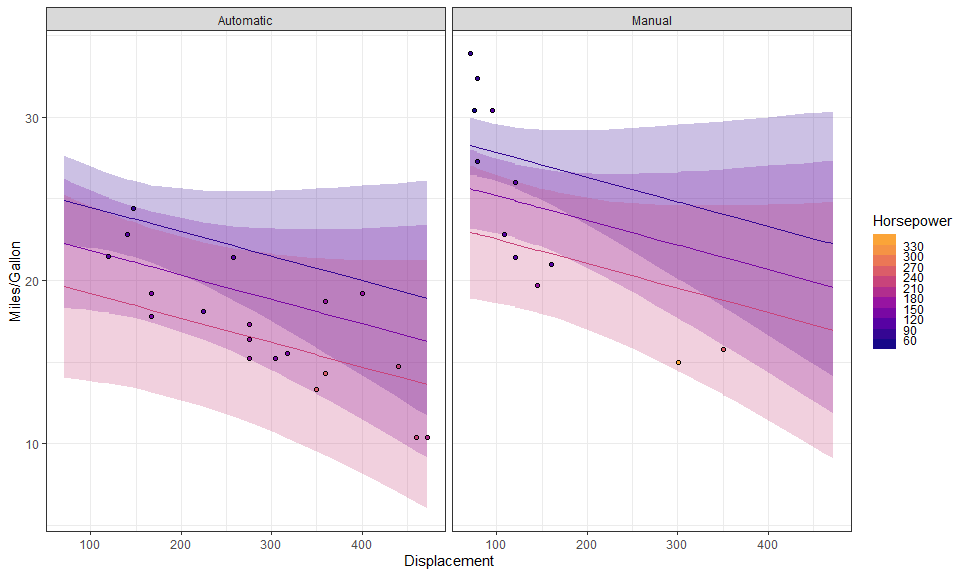
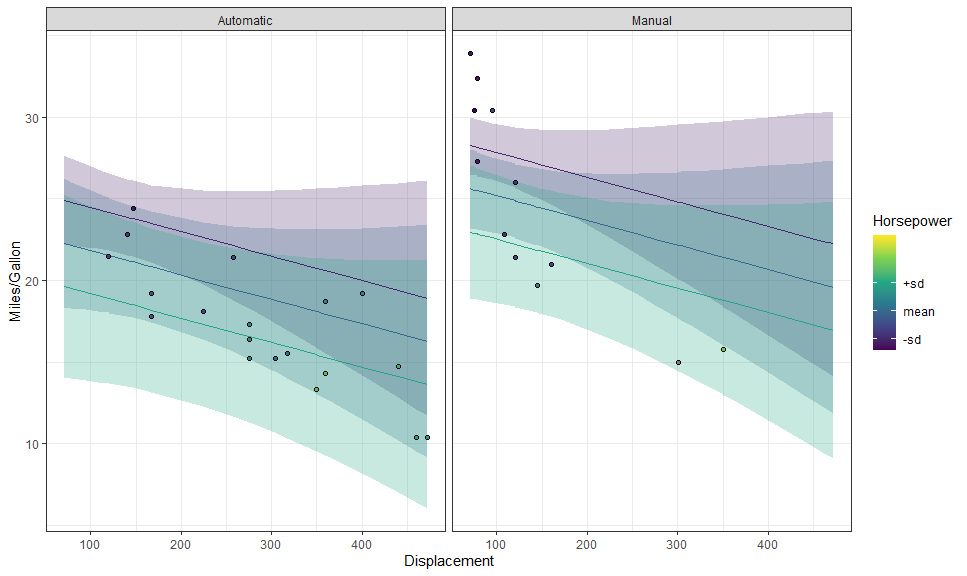
even more scale examples!

Changed region(s): [[0.062, 0.25, 0.8687, 0.875], [0.8997, 0.4062, 0.9617, 0.625]]

diff --git a/README.md b/README.md
@@ -77,7 +77,7 @@ autoplot(
 Here is another example, with a continuous variable on x:
 
 ``` r
-gge <- ggpredict(fit, c("disp [all]", "hp", "am"))
+gge <- ggpredict(fit, c("disp [all]", "hp [meansd]", "am"))
 
 autoplot(
   gge,
@@ -96,15 +96,16 @@ autoplot(
 ![](README_files/figure-gfm/custom2-1.png)<!-- -->
 
 ``` r
+hp_breaks <- setNames(as.numeric(levels(gge$group)), c("-sd", "mean", "+sd"))
+
 (p <- autoplot(gge, labeller = labeller(am = as_labeller(c("0" = "Automatic", "1" = "Manual")))) +
     # Expected + CI
     geom_CI_ribbon() +
     geom_expected_line() +
     # Scales and theme
-    scale_color_binned("Horsepower", 
-                       n.breaks = 10,
-                       type = "viridis",  option = "C", end = 0.8, 
-                       aesthetics = c("color", "fill")) +
+    scale_color_viridis_c("Horsepower", breaks = hp_breaks,
+                          limits = c(50, 330),
+                          aesthetics = c("color", "fill")) +
     theme_bw() +
     labs(y = "Miles/Gallon", x = "Displacement"))
 ```
@@ -152,7 +153,10 @@ These can also be used with other stats:
 ``` r
 gge <- ggpredict(fit, terms = c("disp [100:500, by = 70]", "cyl"))
 
-autoplot(gge, cols = vars(cyl),
+autoplot(gge, 
+         aes(color = as.numeric(as.character(cyl)),
+             fill = as.numeric(as.character(cyl))),
+         cols = vars(cyl),
          labeller = labeller(cyl = as_labeller(c("4" = "Cyl: 4", "6" = 6, "8" = 8)))) + 
   # Expected + CI
   geom_CI_ribbon() + 
@@ -163,7 +167,9 @@ autoplot(gge, cols = vars(cyl),
                  fill = NA, color = "black",
                  geom = "boxplot", stat = "boxplot") + # <<<<
   # Scales and theme
-  scale_color_viridis_d("No. Cylinders", end = 0.5, aesthetics = c("color", "fill")) + 
+  scale_color_binned("No. Cylinders", aesthetics = c("color", "fill"),
+                     type = "viridis",
+                     guide = guide_colorsteps(show.limits = TRUE)) +
   labs(y = "Miles/Gallon", x = "Displacement") + 
   theme_ggeffects()
 ```
